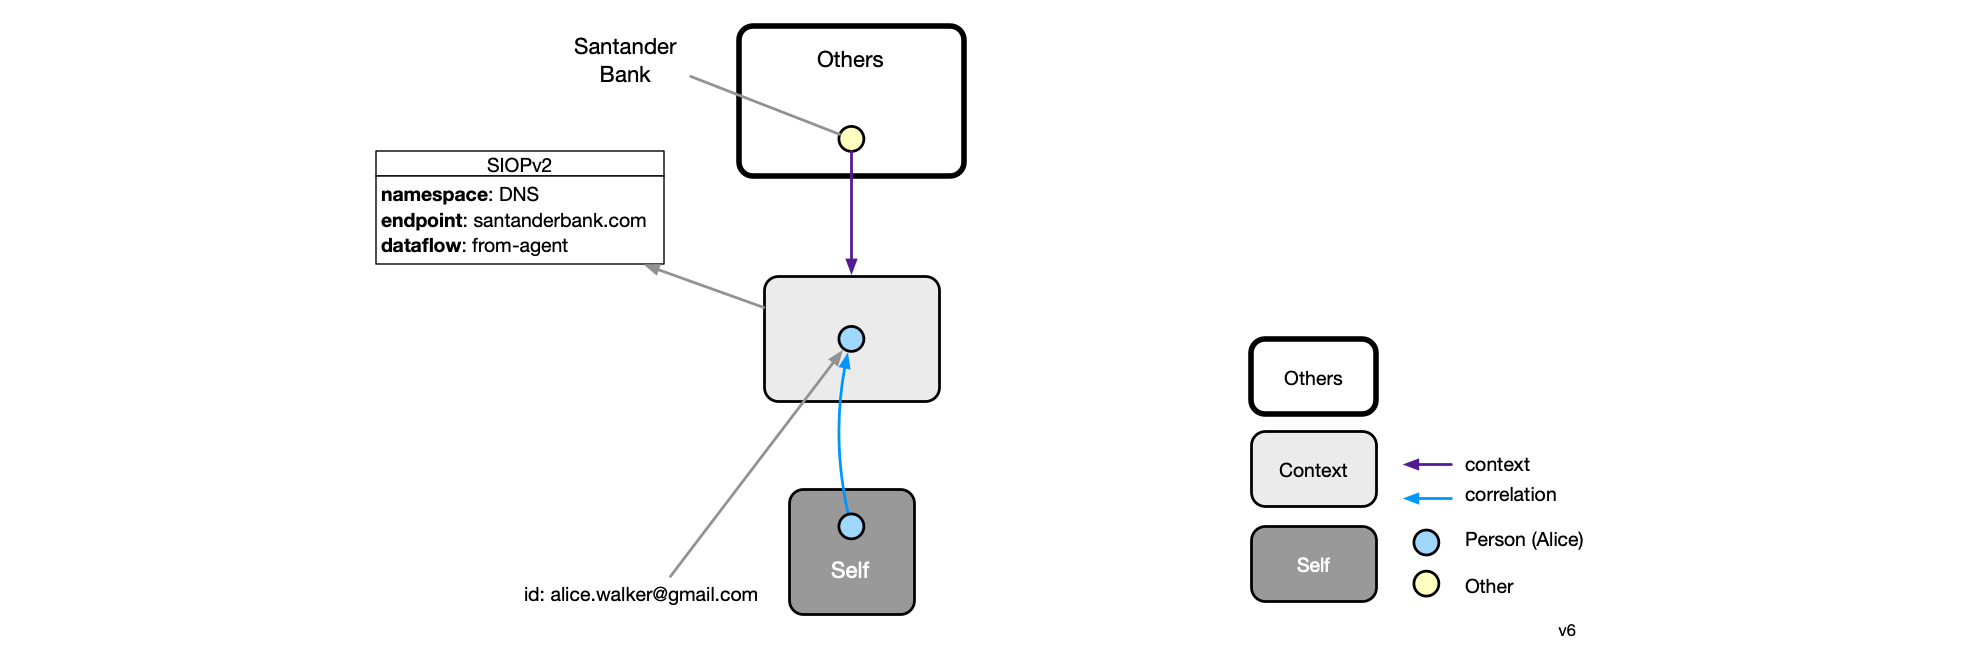
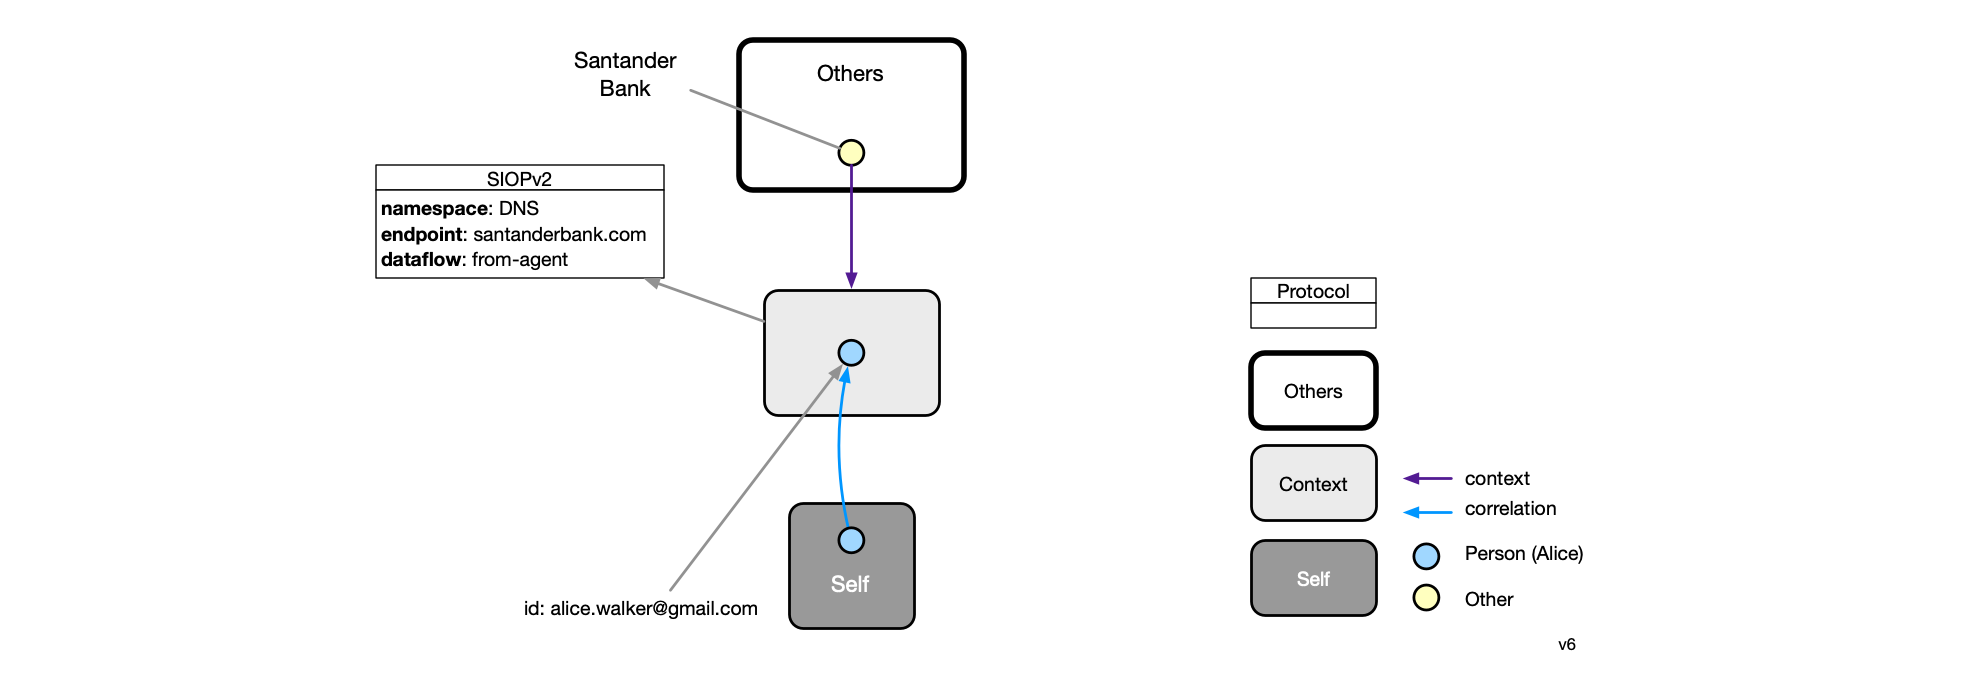
fixed diagrams

diff --git a/src/Data_model.md b/src/Data_model.md
@@ -86,7 +86,7 @@ Alice takes care of her elderly mother, and helps her mother manage her bank acc
 
 ![example-delegated-context](./images/delegated-contexts.png)
 
-As shown above, Alice has a direct connection with the bank but the context for that connection is linked to a context managed by Alice's mother's agent. 
+As shown above, Alice has a direct connection with the bank (that communicates via the SIOPv2 protocol) but the context for that connection is linked to a context managed by Alice's mother's agent. The MeeTalk data replication/sync protocol is used to ensure that Alice's DelegatedContext is always synchronized with the "original" context on her Mother's agent.
 
 ## Persona classes
 
